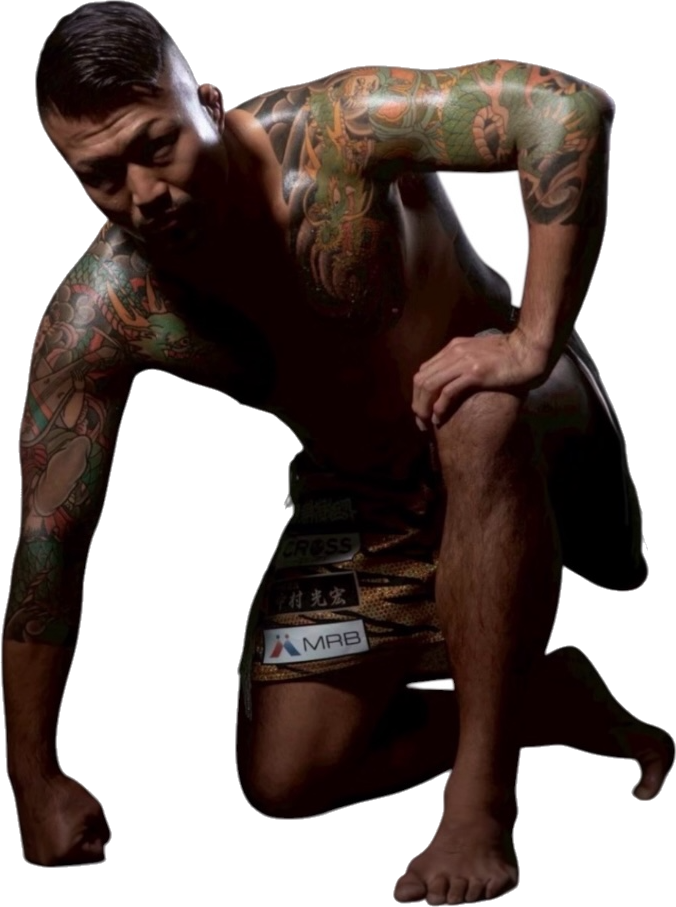
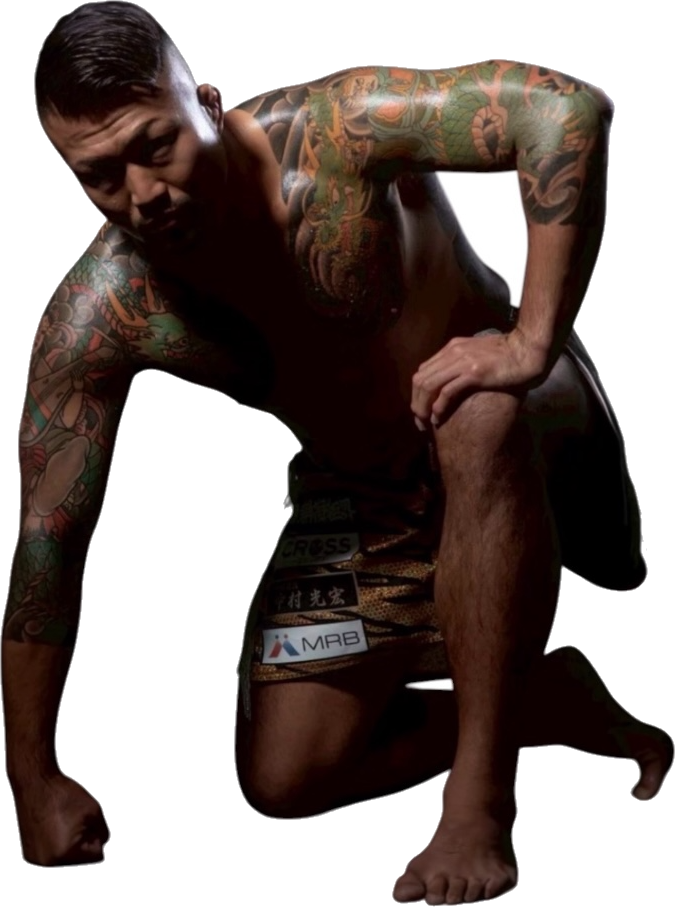
左2体の白完全除去・キャラ1.2倍・薄いバナナ柄ステージ
- IMG_7572/7578を5パス(tolerance130)で白完全消去
- 全キャラのdisplay/physicsを1.2倍
- ステージを薄い半透明+バナナ散りばめのギザギザに

https://claude.ai/code/session_01JZ5UwpeXmUdHLwxFKfhoBX

diff --git a/js/game.js b/js/game.js
@@ -432,105 +432,88 @@ const Game = {
     const pLeft = Physics.getPlatformLeft();
     const pRight = Physics.getPlatformRight();
     const pWidth = Physics.platformWidth;
-    const centerX = w / 2;
-    const bH = Physics.GROUND_HEIGHT + 16;
-    const zigH = 25; // ギザギザの高さ
-    const zigCount = 8; // ギザギザの数
-    const zigW = pWidth / zigCount;
+    const bH = Physics.GROUND_HEIGHT + 10;
+    const zigH = 20;
+    const zigCount = 9;
+    const zigW = (pWidth + 12) / zigCount;
 
     ctx.save();
 
-    // メイン黄色ボディ（上部フラット）
-    ctx.beginPath();
-    ctx.moveTo(pLeft - 6, groundY);
-    ctx.lineTo(pRight + 6, groundY);
-    ctx.lineTo(pRight + 6, groundY + bH);
-
-    // ギザギザ下端
-    for (let i = zigCount - 1; i >= 0; i--) {
-      const x1 = pLeft - 6 + (i + 1) * zigW;
-      const x2 = pLeft - 6 + (i + 0.5) * zigW;
-      const x3 = pLeft - 6 + i * zigW;
-      ctx.lineTo(x1, groundY + bH);
-      ctx.lineTo(x2, groundY + bH + zigH);
-      ctx.lineTo(x3, groundY + bH);
+    // ステージ形状パスを作成
+    function stagePath() {
+      ctx.beginPath();
+      ctx.moveTo(pLeft - 6, groundY);
+      ctx.lineTo(pRight + 6, groundY);
+      ctx.lineTo(pRight + 6, groundY + bH);
+      for (let i = zigCount - 1; i >= 0; i--) {
+        const x1 = pLeft - 6 + (i + 1) * zigW;
+        const x2 = pLeft - 6 + (i + 0.5) * zigW;
+        const x3 = pLeft - 6 + i * zigW;
+        ctx.lineTo(x1, groundY + bH);
+        ctx.lineTo(x2, groundY + bH + zigH);
+        ctx.lineTo(x3, groundY + bH);
+      }
+      ctx.closePath();
     }
 
-    ctx.lineTo(pLeft - 6, groundY);
-    ctx.closePath();
-
-    // 黄色グラデーション
-    const bananaGrad = ctx.createLinearGradient(0, groundY, 0, groundY + bH + zigH);
-    bananaGrad.addColorStop(0, '#ffe840');
-    bananaGrad.addColorStop(0.5, '#ffd700');
-    bananaGrad.addColorStop(1, '#f0c000');
-    ctx.fillStyle = bananaGrad;
+    // 薄い黄色の半透明ベース
+    stagePath();
+    ctx.fillStyle = 'rgba(255, 220, 50, 0.35)';
     ctx.fill();
 
-    // バナナイラストを散りばめる
+    // バナナを散りばめる（クリップ内）
     ctx.save();
-    ctx.clip(); // ステージ形状でクリップ
+    stagePath();
+    ctx.clip();
 
-    const bananaPositions = [
-      { x: pLeft + 20, y: groundY + 12, angle: -0.3, s: 0.8 },
-      { x: pLeft + pWidth * 0.2, y: groundY + 28, angle: 0.4, s: 0.7 },
-      { x: pLeft + pWidth * 0.35, y: groundY + 10, angle: -0.5, s: 0.9 },
-      { x: pLeft + pWidth * 0.5, y: groundY + 30, angle: 0.2, s: 0.75 },
-      { x: pLeft + pWidth * 0.65, y: groundY + 14, angle: -0.2, s: 0.85 },
-      { x: pLeft + pWidth * 0.8, y: groundY + 26, angle: 0.5, s: 0.7 },
-      { x: pRight - 20, y: groundY + 12, angle: -0.4, s: 0.8 },
-      { x: pLeft + pWidth * 0.15, y: groundY + bH, angle: 0.3, s: 0.6 },
-      { x: pLeft + pWidth * 0.45, y: groundY + bH + 5, angle: -0.1, s: 0.65 },
-      { x: pLeft + pWidth * 0.75, y: groundY + bH, angle: 0.4, s: 0.6 },
-    ];
+    const positions = [];
+    for (let row = 0; row < 3; row++) {
+      for (let col = 0; col < 7; col++) {
+        positions.push({
+          x: pLeft + col * (pWidth / 6) - 5 + (row % 2) * 15,
+          y: groundY + 6 + row * 18,
+          angle: (col + row) * 0.7 - 1.5,
+          s: 0.7 + Math.sin(col * 2 + row) * 0.15
+        });
+      }
+    }
 
-    bananaPositions.forEach(bp => {
+    positions.forEach(bp => {
       ctx.save();
       ctx.translate(bp.x, bp.y);
       ctx.rotate(bp.angle);
       ctx.scale(bp.s, bp.s);
+      ctx.globalAlpha = 0.5;
 
-      // バナナの形
+      // バナナ
       ctx.fillStyle = '#ffe135';
-      ctx.strokeStyle = '#c8a000';
-      ctx.lineWidth = 1.5;
+      ctx.strokeStyle = 'rgba(200, 160, 0, 0.6)';
+      ctx.lineWidth = 1;
       ctx.beginPath();
-      ctx.moveTo(0, -5);
-      ctx.quadraticCurveTo(12, -12, 18, -4);
-      ctx.quadraticCurveTo(20, 2, 14, 6);
-      ctx.quadraticCurveTo(6, 10, -2, 4);
-      ctx.quadraticCurveTo(-4, 0, 0, -5);
+      ctx.moveTo(0, -4);
+      ctx.quadraticCurveTo(10, -10, 16, -3);
+      ctx.quadraticCurveTo(18, 2, 12, 5);
+      ctx.quadraticCurveTo(5, 8, -1, 3);
+      ctx.quadraticCurveTo(-3, 0, 0, -4);
       ctx.closePath();
       ctx.fill();
       ctx.stroke();
 
-      // ヘタ
       ctx.fillStyle = '#8B7332';
       ctx.beginPath();
-      ctx.arc(-1, -4, 2, 0, Math.PI * 2);
+      ctx.arc(-1, -3, 1.5, 0, Math.PI * 2);
       ctx.fill();
 
+      ctx.globalAlpha = 1;
       ctx.restore();
     });
 
     ctx.restore();
 
-    // 輪郭線
-    ctx.strokeStyle = '#c8a000';
-    ctx.lineWidth = 2;
-    ctx.beginPath();
-    ctx.moveTo(pLeft - 6, groundY);
-    ctx.lineTo(pRight + 6, groundY);
-    ctx.lineTo(pRight + 6, groundY + bH);
-    for (let i = zigCount - 1; i >= 0; i--) {
-      const x1 = pLeft - 6 + (i + 1) * zigW;
-      const x2 = pLeft - 6 + (i + 0.5) * zigW;
-      const x3 = pLeft - 6 + i * zigW;
-      ctx.lineTo(x1, groundY + bH);
-      ctx.lineTo(x2, groundY + bH + zigH);
-      ctx.lineTo(x3, groundY + bH);
-    }
-    ctx.lineTo(pLeft - 6, groundY);
+    // 薄い輪郭線
+    stagePath();
+    ctx.strokeStyle = 'rgba(200, 170, 0, 0.4)';
+    ctx.lineWidth = 1.5;
     ctx.stroke();
 
     ctx.restore();

diff --git a/js/characters.js b/js/characters.js
@@ -4,64 +4,64 @@ const CHARACTERS = [
   {
     id: 0, name: '腕組み',
     imageSrc: 'images/IMG_7579.png',
-    physicsWidth: 36, physicsHeight: 66,
-    displayWidth: 45, displayHeight: 75,
+    physicsWidth: 43, physicsHeight: 79,
+    displayWidth: 54, displayHeight: 90,
     color: '#E8A87C', pose: 'stand',
     image: null, loaded: false
   },
   {
     id: 1, name: 'しゃがみ',
     imageSrc: 'images/IMG_7572.png',
-    physicsWidth: 45, physicsHeight: 54,
-    displayWidth: 52, displayHeight: 63,
+    physicsWidth: 54, physicsHeight: 65,
+    displayWidth: 62, displayHeight: 76,
     color: '#FF6B6B', pose: 'crouch',
     image: null, loaded: false
   },
   {
     id: 2, name: '仁王立ち',
     imageSrc: 'images/IMG_7573.png',
-    physicsWidth: 51, physicsHeight: 63,
-    displayWidth: 60, displayHeight: 72,
+    physicsWidth: 61, physicsHeight: 76,
+    displayWidth: 72, displayHeight: 86,
     color: '#4ECDC4', pose: 'tpose',
     image: null, loaded: false
   },
   {
     id: 3, name: 'バナナ',
     imageSrc: 'images/IMG_7574.png',
-    physicsWidth: 36, physicsHeight: 66,
-    displayWidth: 45, displayHeight: 75,
+    physicsWidth: 43, physicsHeight: 79,
+    displayWidth: 54, displayHeight: 90,
     color: '#FFD93D', pose: 'stand',
     image: null, loaded: false
   },
   {
     id: 4, name: 'コート',
     imageSrc: 'images/IMG_7577.png',
-    physicsWidth: 39, physicsHeight: 72,
-    displayWidth: 48, displayHeight: 82,
+    physicsWidth: 47, physicsHeight: 86,
+    displayWidth: 58, displayHeight: 98,
     color: '#45B7D1', pose: 'stand',
     image: null, loaded: false
   },
   {
     id: 5, name: '片膝つき',
     imageSrc: 'images/IMG_7578.png',
-    physicsWidth: 45, physicsHeight: 63,
-    displayWidth: 52, displayHeight: 72,
+    physicsWidth: 54, physicsHeight: 76,
+    displayWidth: 62, displayHeight: 86,
     color: '#F9C74F', pose: 'crouch',
     image: null, loaded: false
   },
   {
     id: 6, name: 'ガッツポーズ',
     imageSrc: 'images/IMG_7584.png',
-    physicsWidth: 40, physicsHeight: 66,
-    displayWidth: 47, displayHeight: 75,
+    physicsWidth: 48, physicsHeight: 79,
+    displayWidth: 56, displayHeight: 90,
     color: '#FF4444', pose: 'stand',
     image: null, loaded: false
   },
   {
     id: 7, name: '笑顔',
     imageSrc: 'images/IMG_7585.png',
-    physicsWidth: 38, physicsHeight: 66,
-    displayWidth: 43, displayHeight: 75,
+    physicsWidth: 46, physicsHeight: 79,
+    displayWidth: 52, displayHeight: 90,
     color: '#66BB6A', pose: 'stand',
     image: null, loaded: false
   }

diff --git a/index.html b/index.html
@@ -7,7 +7,7 @@
   <meta name="apple-mobile-web-app-status-bar-style" content="black-translucent">
   <meta name="theme-color" content="#1a1a2e">
   <title>アニマルタワー</title>
-  <link rel="stylesheet" href="css/style.css?v=22">
+  <link rel="stylesheet" href="css/style.css?v=23">
   <script src="https://cdnjs.cloudflare.com/ajax/libs/matter-js/0.19.0/matter.min.js"></script>
 </head>
 <body>
@@ -66,9 +66,9 @@
     </div>
   </div>
 
-  <script src="js/characters.js?v=22"></script>
-  <script src="js/physics.js?v=22"></script>
-  <script src="js/ranking.js?v=22"></script>
-  <script src="js/game.js?v=22"></script>
+  <script src="js/characters.js?v=23"></script>
+  <script src="js/physics.js?v=23"></script>
+  <script src="js/ranking.js?v=23"></script>
+  <script src="js/game.js?v=23"></script>
 </body>
 </html>
